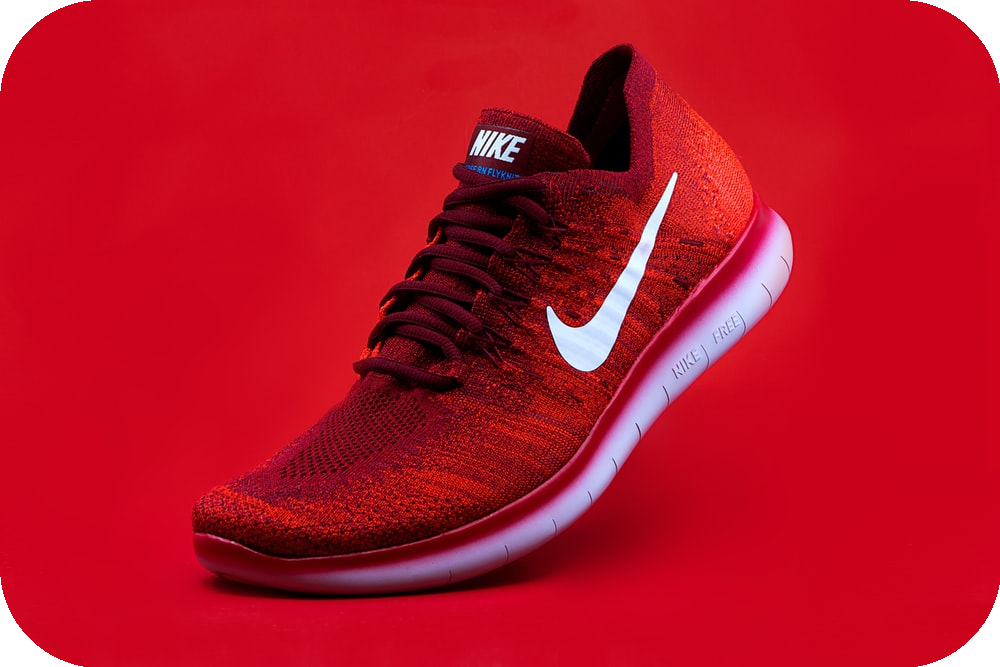
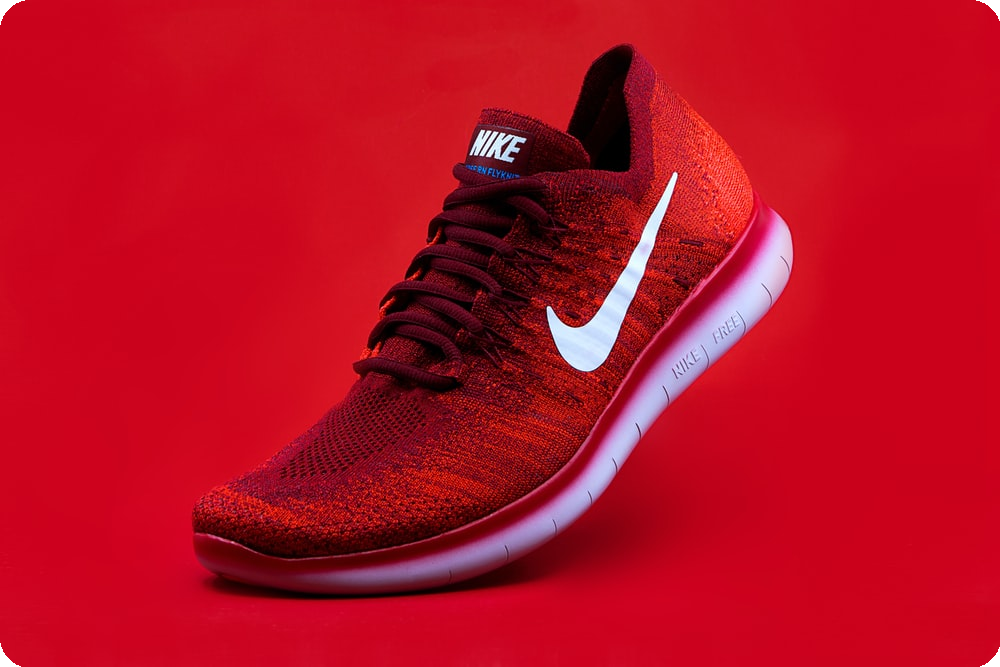
changed the value for smooth curve

diff --git a/auto_feature0001/src/ImgRoundCorner.py b/auto_feature0001/src/ImgRoundCorner.py
@@ -22,5 +22,5 @@ def round_corners(im, rad):
 
 if __name__ == '__main__':
     im = Image.open(img_path)
-    im = round_corners(im, 100)
+    im = round_corners(im, 30)
     im.save('auto_feature0001\ImgFolder\Image01_round.png')
